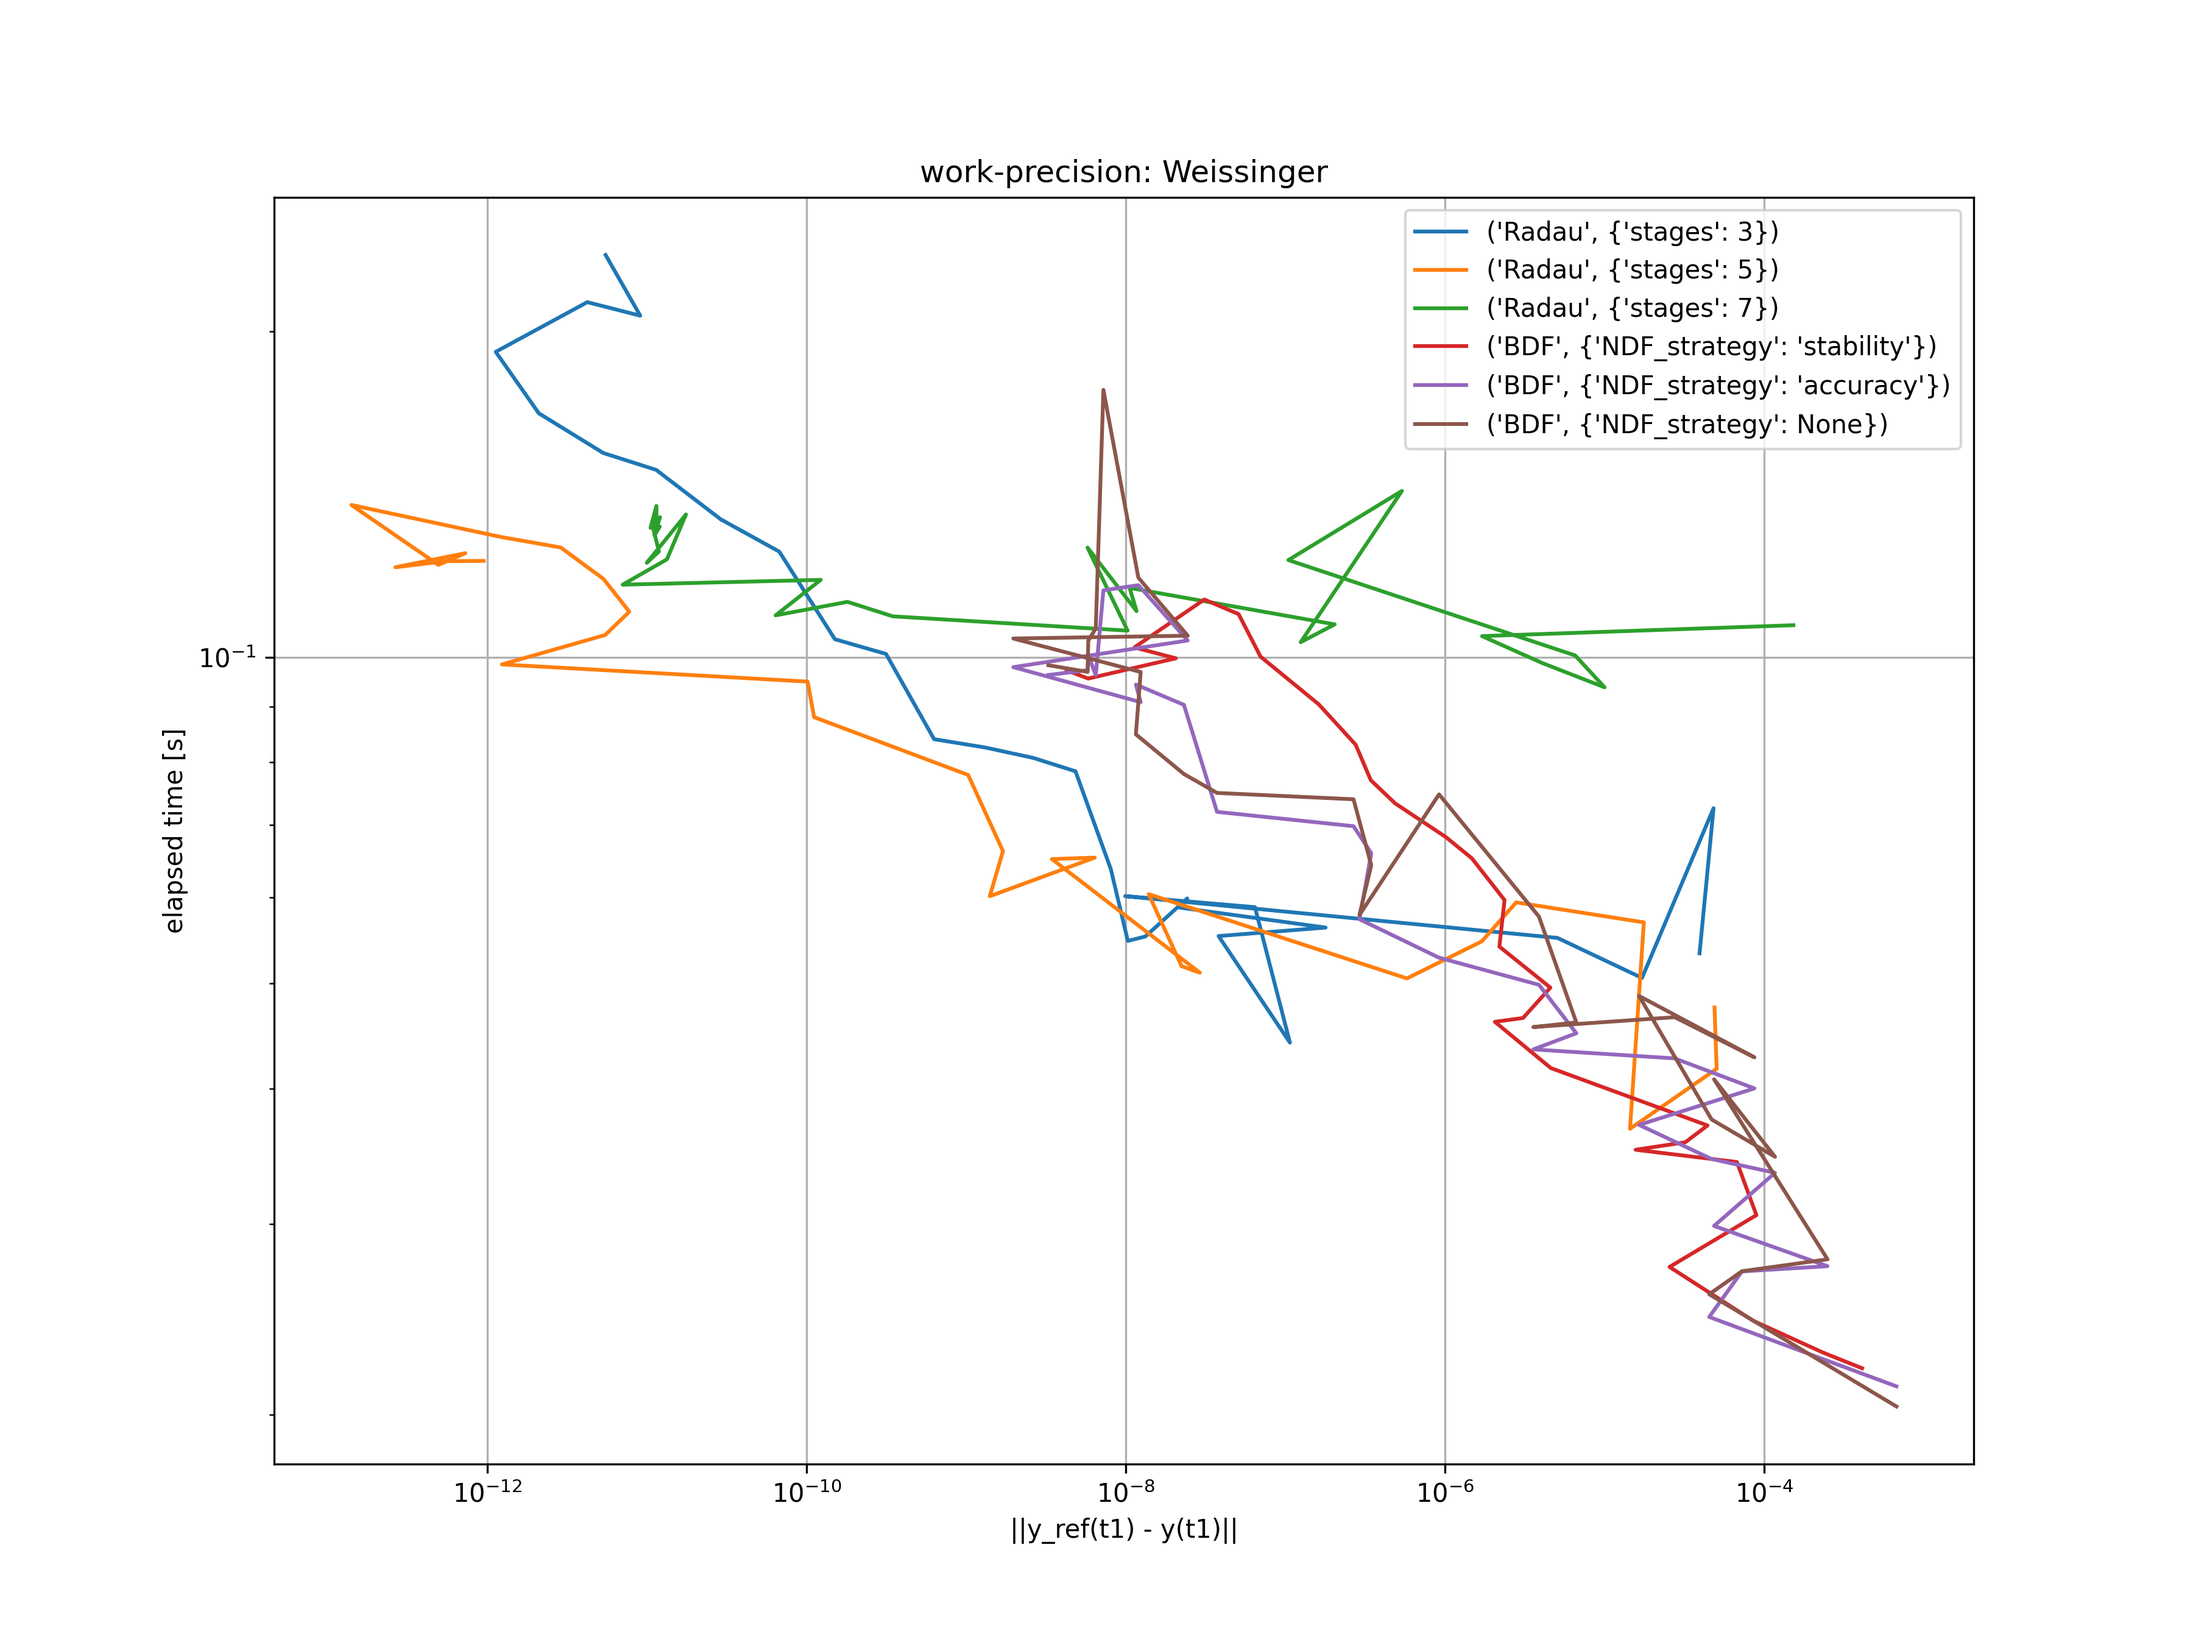
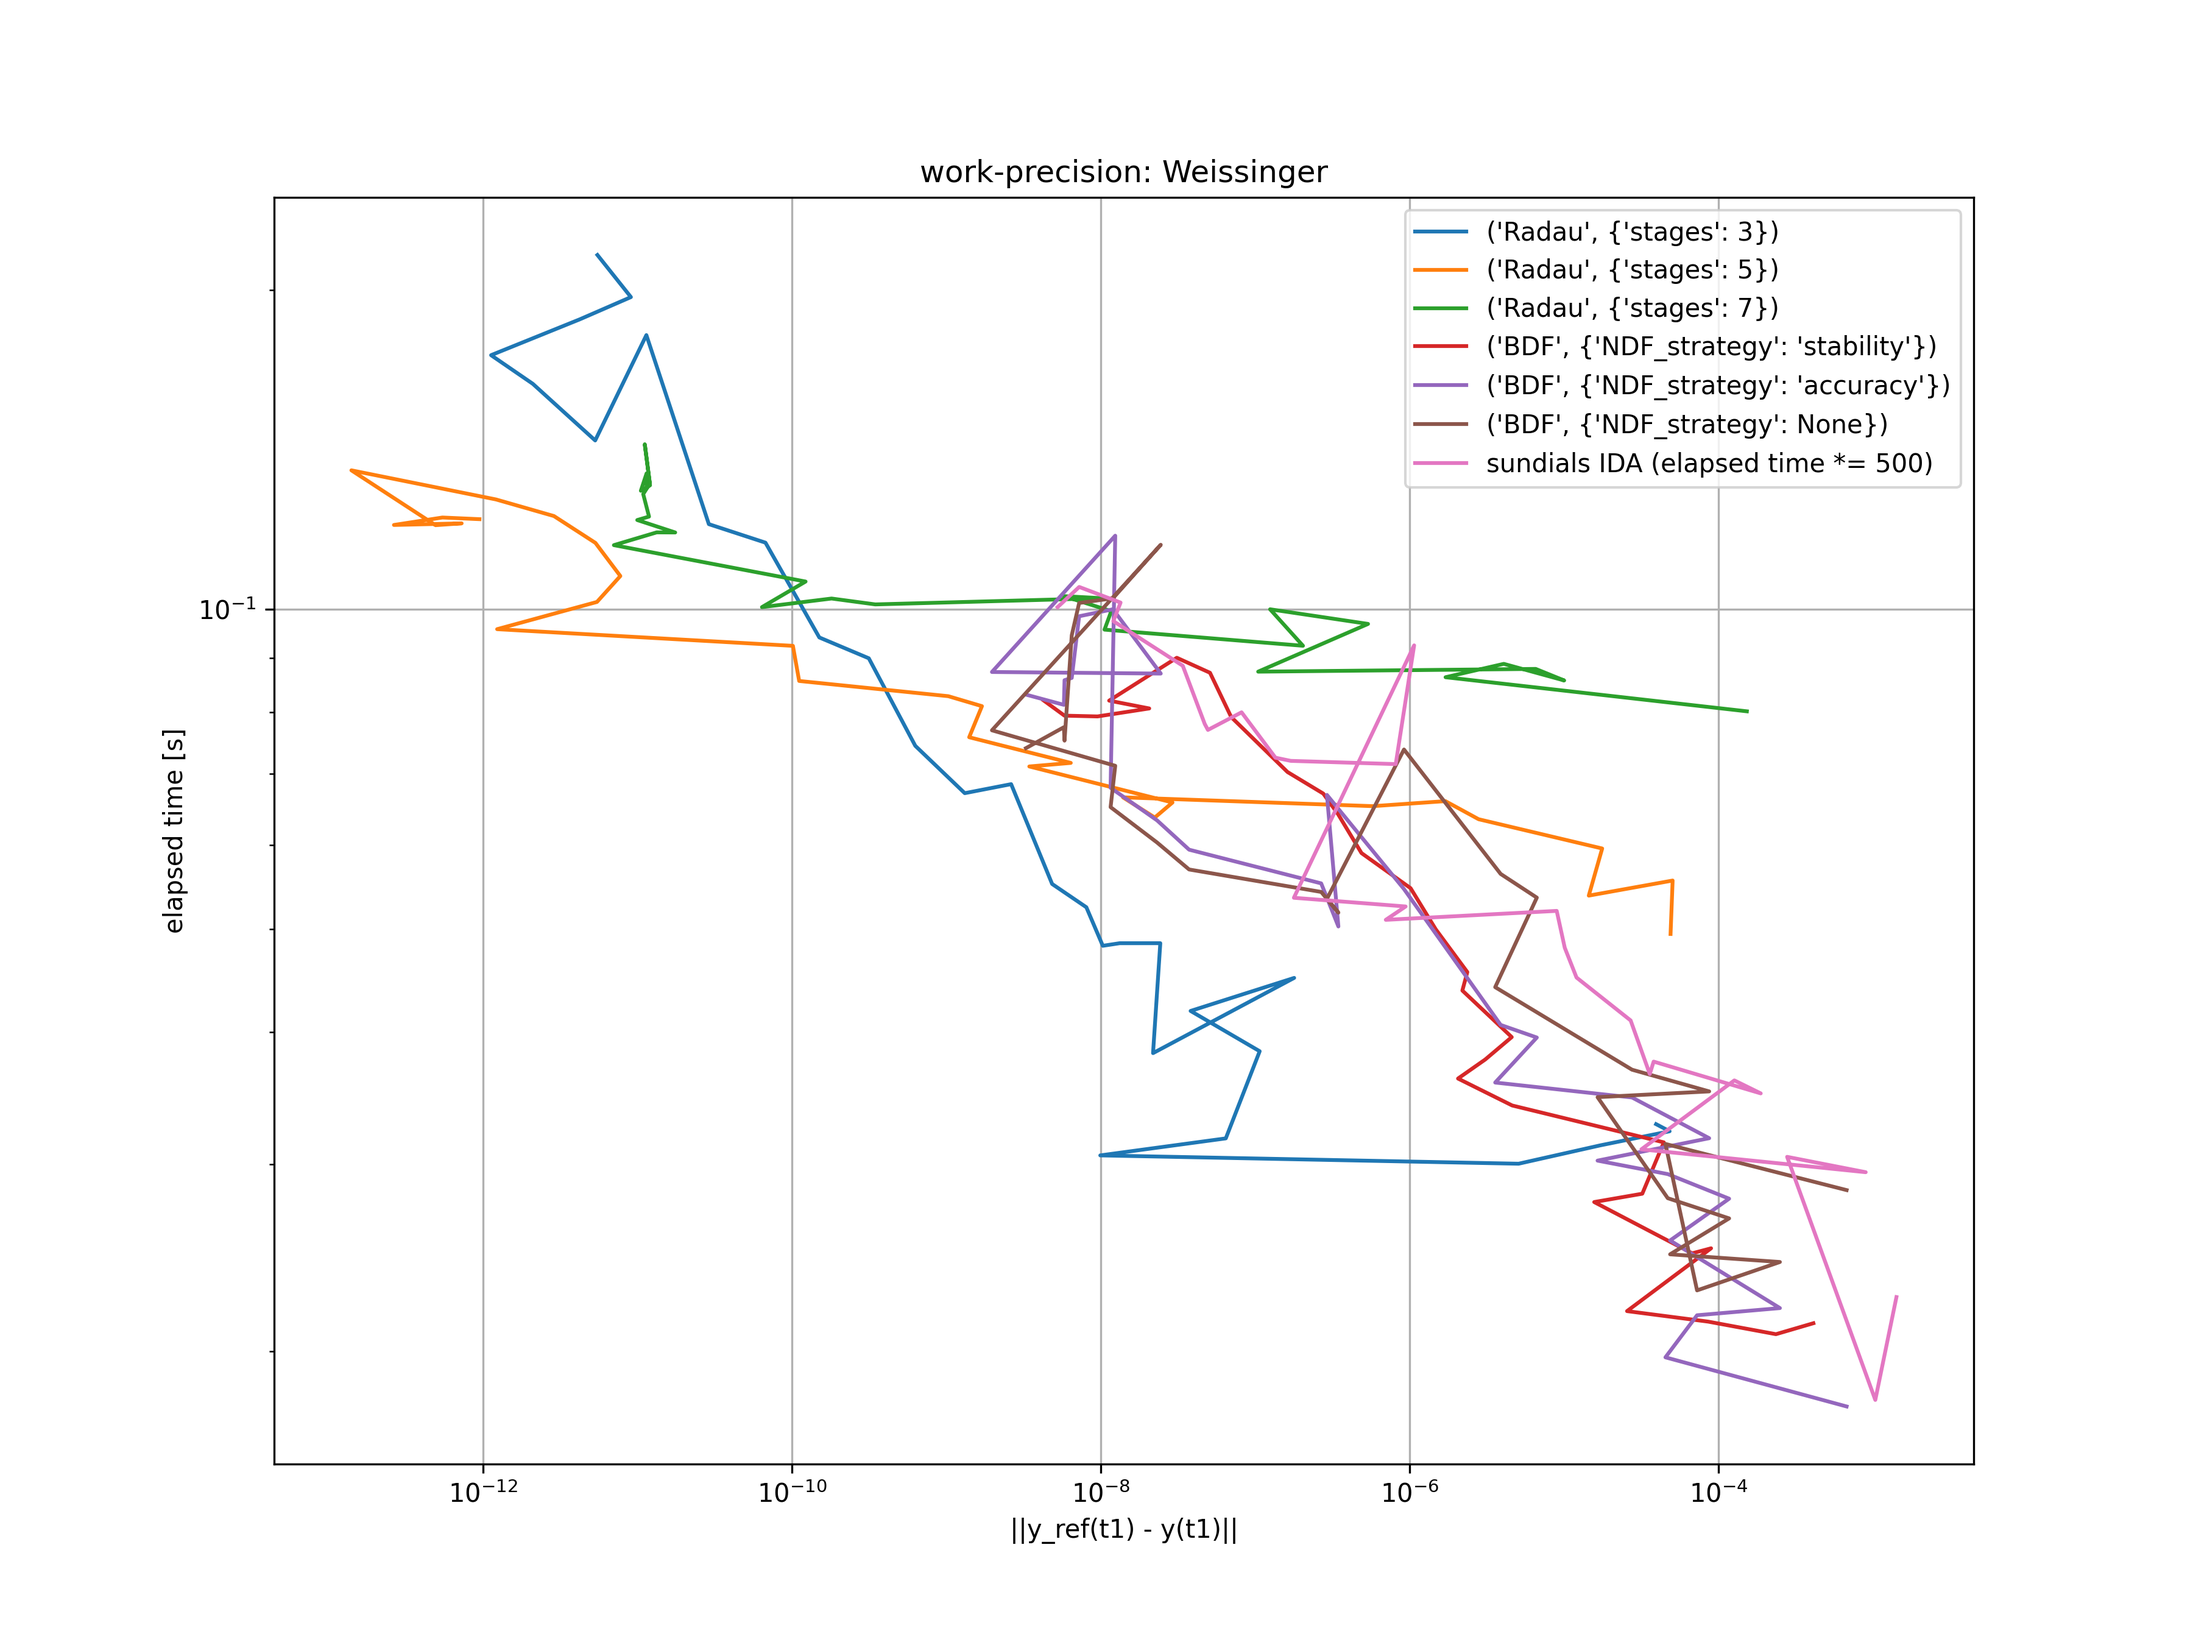
Weissinger benchmark with IDA results.

diff --git a/scipy_dae/integrate/_dae/benchmarks/weissinger/weissinger.c b/scipy_dae/integrate/_dae/benchmarks/weissinger/weissinger.c
@@ -1,0 +1,239 @@
+#include <time.h>
+#include <ida/ida.h> /* prototypes for IDA fcts., consts.    */
+#include <math.h>
+#include <nvector/nvector_serial.h> /* access to serial N_Vector            */
+#include <stdio.h>
+#include <sundials/sundials_math.h> /* defs. of SUNRabs, SUNRexp, etc.      */
+#include <sundials/sundials_types.h> /* defs. of sunrealtype, sunindextype      */
+#include <sunlinsol/sunlinsol_dense.h> /* access to dense SUNLinearSolver      */
+#include <sunmatrix/sunmatrix_dense.h> /* access to dense SUNMatrix            */
+#include <sunnonlinsol/sunnonlinsol_newton.h> /* access to Newton SUNNonlinearSolver  */
+
+#if defined(SUNDIALS_EXTENDED_PRECISION)
+#define GSYM "Lg"
+#define ESYM "Le"
+#define FSYM "Lf"
+#else
+#define GSYM "g"
+#define ESYM "e"
+#define FSYM "f"
+#endif
+
+/* Problem Constants */
+#define NEQ  1
+
+/* Prototypes of functions called by IDA */
+int res(sunrealtype tres, N_Vector yy, N_Vector yp, N_Vector resval,
+        void* user_data);
+
+/* Prototypes of private functions */
+static int check_retval(void* returnvalue, const char* funcname, int opt);
+
+/*
+ *--------------------------------------------------------------------
+ * Main Program
+ *--------------------------------------------------------------------
+ */
+
+int main(void)
+{
+  void* mem;
+  N_Vector yy, yp, avtol;
+  sunrealtype rtol, atol, *yval, *ypval, *atval;
+  sunrealtype t0, tout1, tout, tret;
+  int retval, retvalr;
+  SUNMatrix A;
+  SUNLinearSolver LS;
+  SUNNonlinearSolver NLS;
+  SUNContext ctx;
+  FILE* FID;
+
+  mem = NULL;
+  yy = yp = avtol = NULL;
+  yval = ypval = atval = NULL;
+  A                    = NULL;
+  LS                   = NULL;
+  NLS                  = NULL;
+
+  double m_max = 28.0;
+  for (double m=1.0; m<=m_max; m++) {
+
+    /* Create SUNDIALS context */
+    retval = SUNContext_Create(SUN_COMM_NULL, &ctx);
+    if (check_retval(&retval, "SUNContext_Create", 1)) { return (1); }
+
+    /* Allocate N-vectors. */
+    yy = N_VNew_Serial(NEQ, ctx);
+    if (check_retval((void*)yy, "N_VNew_Serial", 0)) { return (1); }
+    yp = N_VClone(yy);
+    if (check_retval((void*)yp, "N_VNew_Serial", 0)) { return (1); }
+    avtol = N_VClone(yy);
+    if (check_retval((void*)avtol, "N_VNew_Serial", 0)) { return (1); }
+
+    /* Create and initialize  y, y', and absolute tolerance vectors. */
+    yval    = N_VGetArrayPointer(yy);
+    yval[0] = SUN_RCONST(1.0);
+
+    ypval    = N_VGetArrayPointer(yp);
+    ypval[0] = SUN_RCONST(sqrt(2.0) / 2.0);
+
+    /* define tolerances */
+    rtol = pow(10, -(4 + m / 4));
+
+    atval    = N_VGetArrayPointer(avtol);
+    atval[0] = rtol;
+
+    int mxsteps = 1e8;
+
+    /* Integration limits */
+    t0    = SUN_RCONST(sqrt(0.5));
+    tout1 = SUN_RCONST(10.0);
+
+    /* Call IDACreate and IDAInit to initialize IDA memory */
+    mem = IDACreate(ctx);
+    if (check_retval((void*)mem, "IDACreate", 0)) { return (1); }
+    retval = IDAInit(mem, res, t0, yy, yp);
+    if (check_retval(&retval, "IDAInit", 1)) { return (1); }
+    /* Call IDASVtolerances to set tolerances */
+    retval = IDASVtolerances(mem, rtol, avtol);
+    if (check_retval(&retval, "IDASVtolerances", 1)) { return (1); }
+
+    /* Create dense SUNMatrix for use in linear solves */
+    A = SUNDenseMatrix(NEQ, NEQ, ctx);
+    if (check_retval((void*)A, "SUNDenseMatrix", 0)) { return (1); }
+
+    /* Create dense SUNLinearSolver object */
+    LS = SUNLinSol_Dense(yy, A, ctx);
+    if (check_retval((void*)LS, "SUNLinSol_Dense", 0)) { return (1); }
+
+    /* Attach the matrix and linear solver */
+    retval = IDASetLinearSolver(mem, LS, A);
+    if (check_retval(&retval, "IDASetLinearSolver", 1)) { return (1); }
+
+    /* Create Newton SUNNonlinearSolver object. IDA uses a
+    * Newton SUNNonlinearSolver by default, so it is unecessary
+    * to create it and attach it. It is done in this example code
+    * solely for demonstration purposes. */
+    NLS = SUNNonlinSol_Newton(yy, ctx);
+    if (check_retval((void*)NLS, "SUNNonlinSol_Newton", 0)) { return (1); }
+
+    /* Attach the nonlinear solver */
+    retval = IDASetNonlinearSolver(mem, NLS);
+    if (check_retval(&retval, "IDASetNonlinearSolver", 1)) { return (1); }
+
+    /* Maximum number of steps */
+    IDASetMaxNumSteps(mem, mxsteps);
+
+    /* In loop, call IDASolve, print results, and test for error.
+      Break out of loop when NOUT preset output times have been reached. */
+    tout = tout1;
+
+    clock_t start = clock();
+    retval = IDASolve(mem, tout, &tret, yy, yp, IDA_NORMAL);
+    clock_t end = clock();
+    double elapsed_time = (double)(end - start) / CLOCKS_PER_SEC;
+
+    /* Print elapsed time and error to a file in CSV format */
+    yval  = N_VGetArrayPointer(yy);
+
+    // see https://archimede.uniba.it/~testset/report/rober.pdf
+    double diff_y1 = yval[0] - sqrt(tout1 * tout1 + 0.5);
+    double error = sqrt(diff_y1 * diff_y1);
+
+    FID = fopen("robertson.csv", "a");
+    fprintf(FID, "%17.17e, %17.17e\n", error, elapsed_time);
+    fclose(FID);
+
+    /* Print rtol, elapsed time and error to a file in CSV format */
+    printf("rtol: %e, elapsed time: %e, error: %e\n", rtol, elapsed_time, error);
+
+  }
+
+  /* Free memory */
+  IDAFree(&mem);
+  SUNNonlinSolFree(NLS);
+  SUNLinSolFree(LS);
+  SUNMatDestroy(A);
+  N_VDestroy(avtol);
+  N_VDestroy(yy);
+  N_VDestroy(yp);
+  SUNContext_Free(&ctx);
+
+  return (retval);
+}
+
+/*
+ *--------------------------------------------------------------------
+ * Functions called by IDA
+ *--------------------------------------------------------------------
+ */
+
+/*
+ * Define the system residual function.
+ */
+int res(sunrealtype tres, N_Vector yy, N_Vector yp, N_Vector rr,
+           void* user_data)
+{
+  sunrealtype *yval, *ypval, *rval;
+
+  yval  = N_VGetArrayPointer(yy);
+  ypval = N_VGetArrayPointer(yp);
+  rval  = N_VGetArrayPointer(rr);
+
+  rval[0] = (
+    tres * pow(yval[0], 2.0) * pow(ypval[0], 3.0)
+    - pow(yval[0], 3.0) * pow(ypval[0], 2.0)
+    + tres * (pow(tres, 2.0) + 1) * ypval[0]
+    -pow(tres, 2.0) * yval[0]
+  );
+
+  return (0);
+}
+
+/*
+ *--------------------------------------------------------------------
+ * Private functions
+ *--------------------------------------------------------------------
+ */
+
+/*
+ * Check function return value...
+ *   opt == 0 means SUNDIALS function allocates memory so check if
+ *            returned NULL pointer
+ *   opt == 1 means SUNDIALS function returns an integer value so check if
+ *            retval < 0
+ *   opt == 2 means function allocates memory so check if returned
+ *            NULL pointer
+ */
+
+static int check_retval(void* returnvalue, const char* funcname, int opt)
+{
+  int* retval;
+  /* Check if SUNDIALS function returned NULL pointer - no memory allocated */
+  if (opt == 0 && returnvalue == NULL)
+  {
+    fprintf(stderr, "\nSUNDIALS_ERROR: %s() failed - returned NULL pointer\n\n",
+            funcname);
+    return (1);
+  }
+  else if (opt == 1)
+  {
+    /* Check if retval < 0 */
+    retval = (int*)returnvalue;
+    if (*retval < 0)
+    {
+      fprintf(stderr, "\nSUNDIALS_ERROR: %s() failed with retval = %d\n\n",
+              funcname, *retval);
+      return (1);
+    }
+  }
+  else if (opt == 2 && returnvalue == NULL)
+  {
+    /* Check if function returned NULL pointer - no memory allocated */
+    fprintf(stderr, "\nMEMORY_ERROR: %s() failed - returned NULL pointer\n\n",
+            funcname);
+    return (1);
+  }
+
+  return (0);
+}

diff --git a/examples/daes/stiff_transistor_amplifier.py b/examples/daes/stiff_transistor_amplifier.py
@@ -5,13 +5,15 @@ from scipy_dae.integrate import solve_dae, consistent_initial_conditions
 
 
 """This example shows how to solve a stiff differential algebraic equation (DAE) 
-that describes an electrical circuit, see [1]_ and [2]_. 
+that describes an electrical circuit, see [1]_ and [2]_. The parameters and the 
+exponential model for the transistor are discussed in [3]_. 
 
 References
 ----------
 .. [1] E. Hairer, G. Wanner, "Solving Ordinary Differential Equations II:
         Stiff and Differential-Algebraic Problems", p. 377.
 .. [2] https://www.mathworks.com/help/matlab/math/solve-stiff-transistor-dae.html
+.. [3] https://doi.org/10.1007/BF01398915
 """
 
 # Problem parameters
@@ -20,8 +22,10 @@ R0 = 1000
 Ri = 9000
 R1, R2, R3, R4, R5 = 9000 * np.ones(5)
 alpha = 0.99
+beta = 1e-6
+Uf = 0.026
 Ue = lambda t: 0.4 * np.sin(200 * np.pi * t)  
-f = lambda U: 1e-6 * (np.exp(U / 0.026) - 1)
+f = lambda U: beta * (np.exp(U / Uf) - 1)
 C1, C2, C3 = 1e-6 * np.arange(1, 4)
 
 # initial states
@@ -63,7 +67,6 @@ y0, up0, fnorm = consistent_initial_conditions(F, t0, y0, up0)
 print(f"u0: {y0}")
 print(f"up0: {up0}")
 print(f"fnorm: {fnorm}")
-exit()
 
 # solver options
 atol = rtol = 1e-6
@@ -74,7 +77,7 @@ sol = solve_dae(F, t_span, y0, up0, atol=atol, rtol=rtol, method=method, t_eval=
 end = time.time()
 print(f"elapsed time: {end - start}")
 t = sol.t
-u = sol.y
+y = sol.y
 success = sol.success
 status = sol.status
 message = sol.message
@@ -85,12 +88,34 @@ print(f"nfev: {sol.nfev}")
 print(f"njev: {sol.njev}")
 print(f"nlu: {sol.nlu}")
 
+import numpy as np
+import sys
+from pathlib import Path
+
+header = "t, Ue, U1, U2, U3, U4, U5"
+
+data = np.vstack((
+    t[None, :],
+    Ue(t)[None, :],
+    y,
+)).T
+
+path = Path(sys.modules["__main__"].__file__)
+
+np.savetxt(
+    path.parent / (path.stem + ".txt"),
+    data,
+    delimiter=", ",
+    header=header,
+    comments="",
+)
+
 # visualization
 fig, ax = plt.subplots()
 ax.set_xlabel("t")
 ax.set_title("One transistor amplifier problem")
 ax.plot(t, Ue(t), label="input voltage Ue(t)")
-ax.plot(t, u[4], label="output voltage U5(t)")
+ax.plot(t, y[4], label="output voltage U5(t)")
 ax.grid()
 ax.legend()
 plt.show()

diff --git a/scipy_dae/integrate/_dae/benchmarks/common.py b/scipy_dae/integrate/_dae/benchmarks/common.py
@@ -85,6 +85,10 @@ def benchmark(t0, t1, y0, yp0, F, rtols, atols, h0s, name, y_ref=None, y_idx=Non
         result_IDA = np.loadtxt("scipy_dae/integrate/_dae/benchmarks/robertson/robertson_errors_IDA.csv", delimiter=',')
         result_IDA[:, 1] *= 100 # scale elapsed time by 100
         ax.plot(*result_IDA.T, label="sundials IDA (elapsed time *= 100)")
+    elif name == "Weissinger":
+        result_IDA = np.loadtxt("scipy_dae/integrate/_dae/benchmarks/weissinger/weissinger_errors_IDA.csv", delimiter=',')
+        result_IDA[:, 1] *= 500 # scale elapsed time by 500
+        ax.plot(*result_IDA.T, label="sundials IDA (elapsed time *= 500)")
     elif name == "Arevalo":
         result_IDA = np.loadtxt("scipy_dae/integrate/_dae/benchmarks/arevalo/arevalo_errors_IDA.csv", delimiter=',')
         result_IDA[:, 1] *= 100 # scale elapsed time by 100
